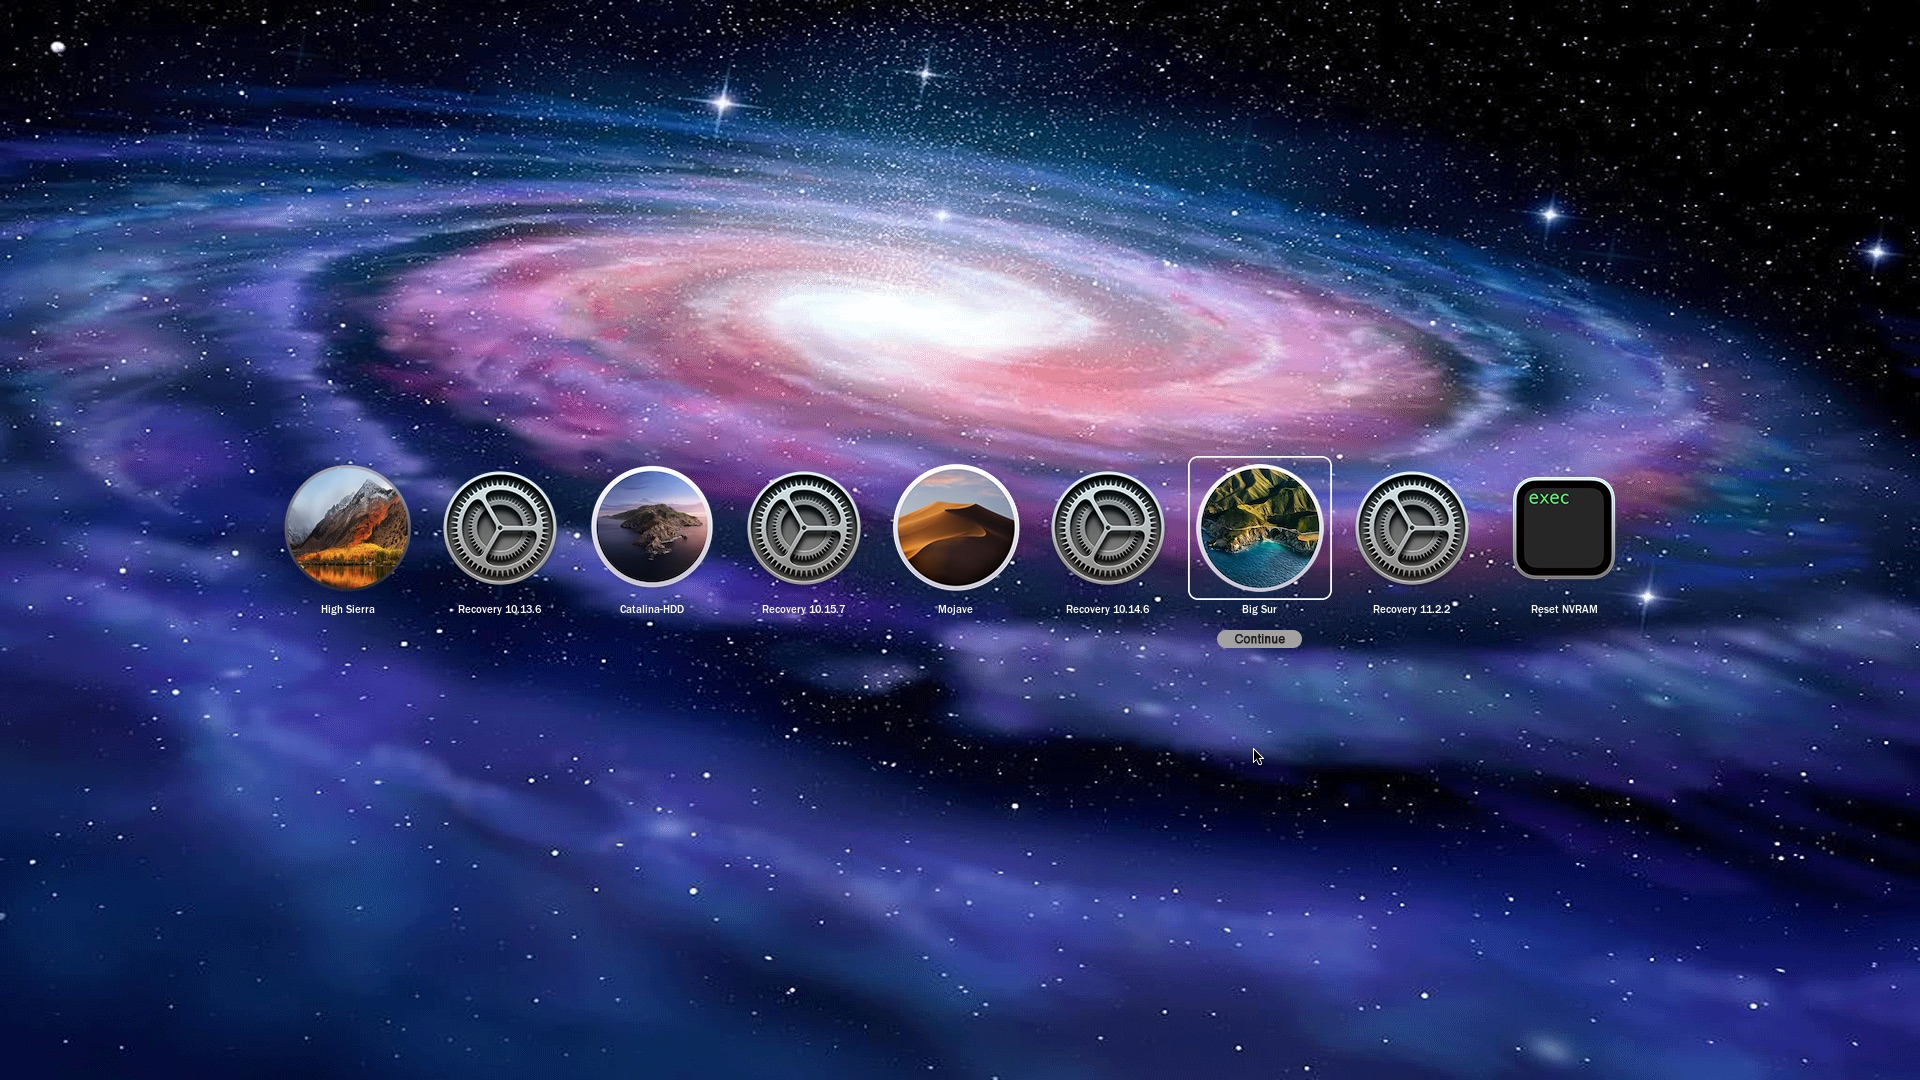
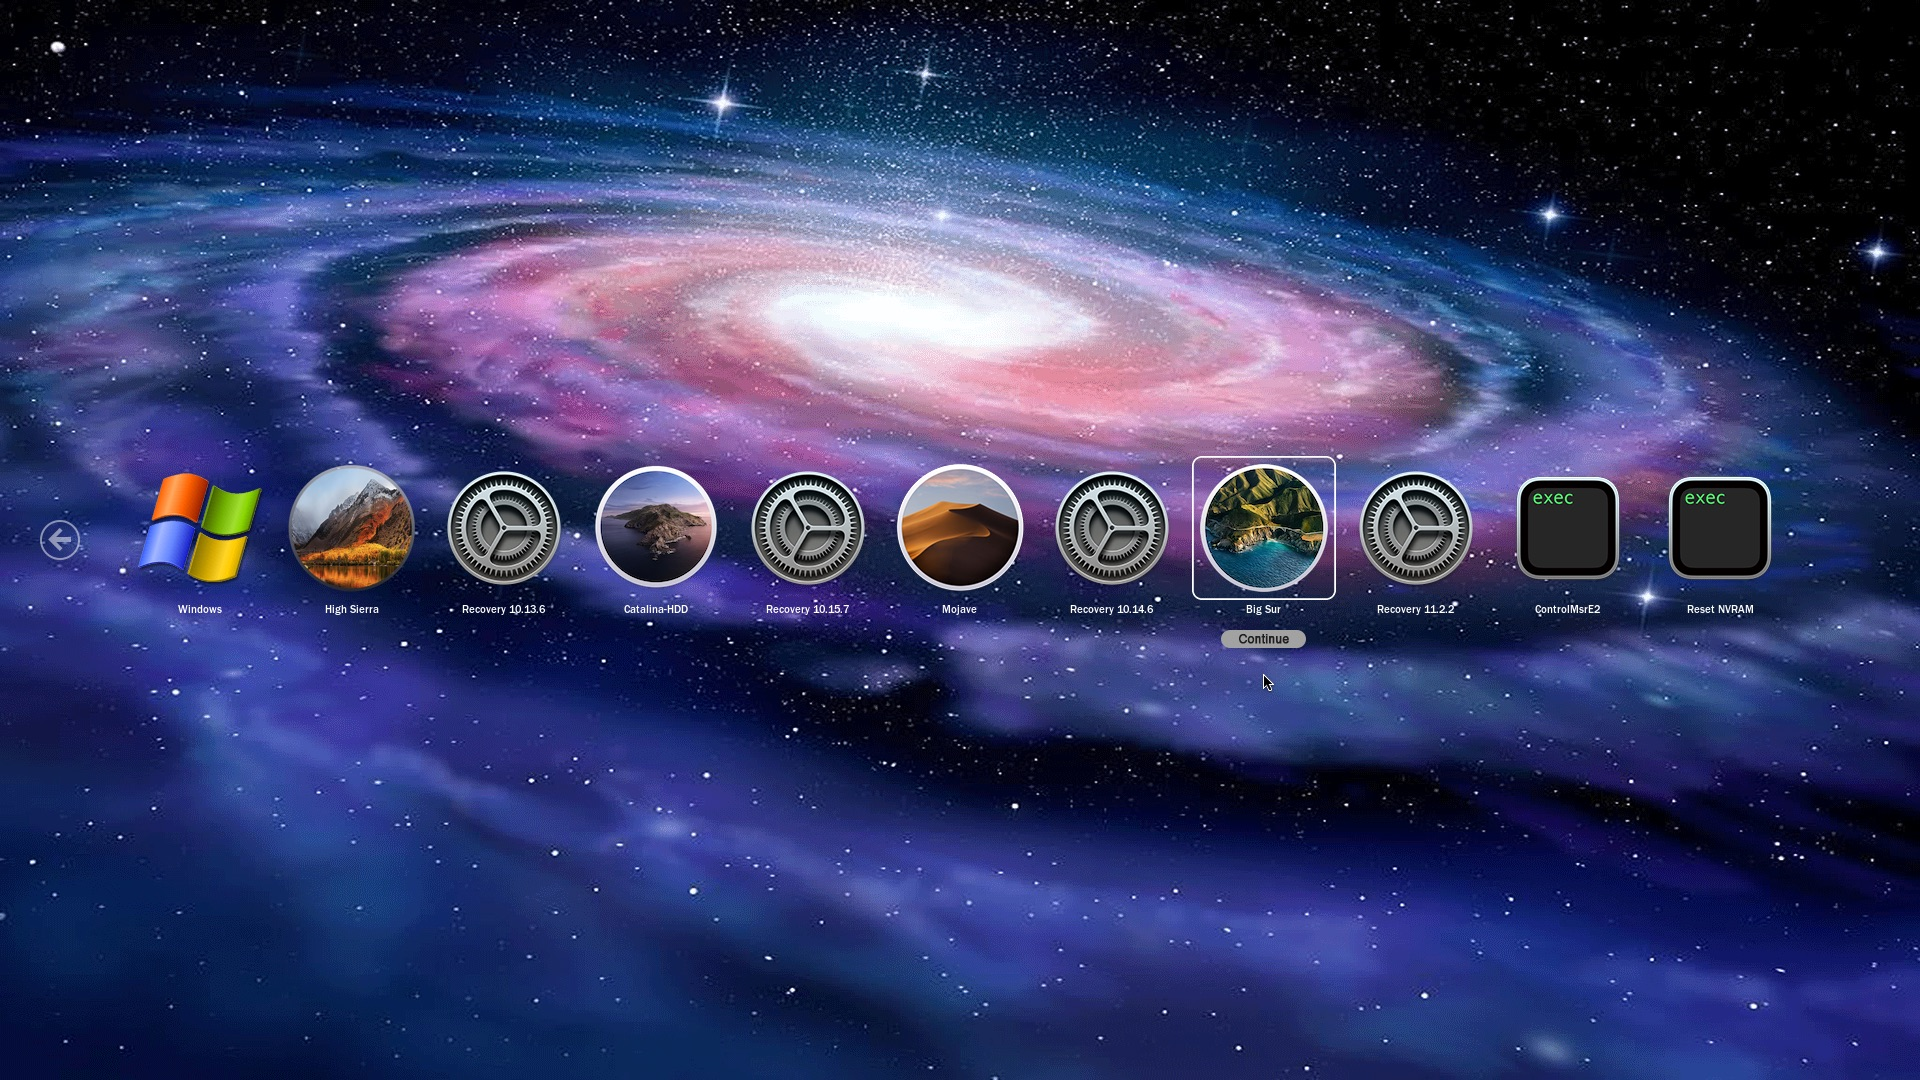
added 'MSR E2 register unlock' material for OC & Clover

diff --git a/README.md b/README.md
@@ -158,6 +158,11 @@ from OpenCore Post-Install/[Fixing CFG Lock](https://dortania.github.io/OpenCore
 **OpenCore:**
 
 1. In OC's Boot GUI, launch the 2nd-to-last entry labeled `ControlMsrE2.efi`.
+<details>
+  <summary>image - click to expand</summary> 
+
+
+</details>
 2. Confirm with `y` or the equivalent key on your keyboard if it's non-English (should be the key underneath the 6 and 7 keys).
 3. reboot
 4. OpenCore Configurator > Kernel: disable `AppleXcpmCfgLock`, save<br>
@@ -168,9 +173,13 @@ from OpenCore Post-Install/[Fixing CFG Lock](https://dortania.github.io/OpenCore
 
 1. Right after turning on or rebooting your VivoBook, press the ESC key to intercept booting and to enter the built-in Boot Menu. **THIS STEP IS MANDATORY** so `CFGLock.efi` can find the CFG variable if run as a tool from within Clover - DON'T SKIP IT! 
 2. Choose your partition with Clover and boot it. 
-3.  In Clover's Boot GUI, navigate into the Tools section below the icons and launch `CFGLock.efi`. 
+3.  In Clover's Boot GUI, navigate into the `Tools` section below the icons and launch `CFGLock.efi`.<br>
+You should see: <details>
+  <summary>image - click to expand</summary> 
+<img src="https://user-images.githubusercontent.com/39203497/110780283-d2ce2d80-8264-11eb-928f-5eda2ae163ee.jpg" width="600" height="">
+</details> 
 4. Confirm with `y` or the equivalent key on your keyboard if it's non-English (should be the key underneath the 6 and 7 keys).<br>
-*(Note: only if you get an error like "`Couldn't find any Variable with cfg in name`"), choose the next tool entry `CleanNvram`, reboot, and start again)* 
+*(Note: only if you get an error like "`Couldn't find any Variable with cfg in name`"), choose the next tool entry `CleanNvram`, reboot, and start again)*
 5. reboot
 
  *(Note: Clover as of r5131 does not support running the more current `ControlMsrE2.efi` as a tool (see [bug #376)](https://github.com/CloverHackyColor/CloverBootloader/issues/376) which is why the older `CFGLock.efi` is being used)*
